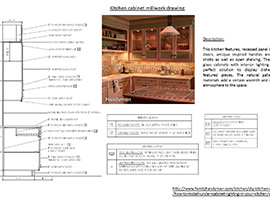
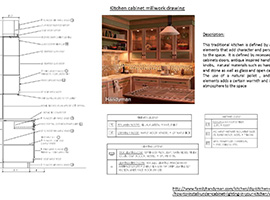
Drafting
fixed mistake on kitchen millwork and added mulberry residence and cafe
in the drafting tab

Changed region(s): [[0.0, 0.06, 0.3852, 0.93], [0.7407, 0.15, 1.0, 0.45]]

diff --git a/chantalportfolio/Drafting.php b/chantalportfolio/Drafting.php
@@ -155,7 +155,67 @@
                             </div>
                             <!--/ .project-thumb-->
                         </li>
-                        <li data-pile="Millwork">
+                      <li data-pile="Mulberry Residence">
+                            <div class="project-thumb">
+                                <a class="single-image plus-icon animTop" href="images/MulberryResidence/MullberryFloorPlan.jpg" rel="Mulberry Residence">
+                                    <img src="images/MulberryResidence/Mullberry%20Architectural&RCPCopy.jpg" />
+                                </a>
+                                <a href="gallery-single.html" class="project-meta">
+                                    <h6 class="title">Elevations #2</h6>
+                                    <span class="categories">Optometry Office</span>
+                                </a>
+                            </div>
+                            <!--/ .project-thumb-->
+                        </li>
+                     <li data-pile="Mulberry Residence">
+                            <div class="project-thumb">
+                                <a class="single-image plus-icon animTop" href="images/MulberryResidence/Mullberry%20Architectural&RCP.jpg" rel="Mulberry Residence">
+                                    <img src="images/MulberryResidence/Mullberry%20Architectural&RCPCopy.jpg" />
+                                </a>
+                                <a href="gallery-single.html" class="project-meta">
+                                    <h6 class="title">Elevations #2</h6>
+                                    <span class="categories">Optometry Office</span>
+                                </a>
+                            </div>
+                            <!--/ .project-thumb-->
+                        </li>
+                     <li data-pile="Mulberry Cafe">
+                            <div class="project-thumb">
+                                <a class="single-image plus-icon animTop" href="images/Mulberry%2520Cafe/CafeArchitectural.jpg" rel="Mulberry Cafe">
+                                    <img src="images/Mulberry%2520Cafe/CafeArchitecturalCopy.jpg" />
+                                </a>
+                                <a href="gallery-single.html" class="project-meta">
+                                    <h6 class="title">Elevations #2</h6>
+                                    <span class="categories">Optometry Office</span>
+                                </a>
+                            </div>
+                            <!--/ .project-thumb-->
+                        </li>
+                     <li data-pile="Mulberry Cafe">
+                            <div class="project-thumb">
+                                <a class="single-image plus-icon animTop" href="images/Mulberry%2520Cafe/CafeFurnitureFixture.jpg" rel="Mulberry Cafe">
+                                    <img src="images/Mulberry%2520Cafe/CafeFurnitureFixtureCopy.jpg" />
+                                </a>
+                                <a href="gallery-single.html" class="project-meta">
+                                    <h6 class="title">Elevations #2</h6>
+                                    <span class="categories">Optometry Office</span>
+                                </a>
+                            </div>
+                            <!--/ .project-thumb-->
+                        </li>
+                     <li data-pile="Mulberry Cafe">
+                            <div class="project-thumb">
+                                <a class="single-image plus-icon animTop" href="images/Mulberry%2520Cafe/CafeRCP.jpg"el="Mulberry Cafe">
+                                    <img src="images/Mulberry%2520Cafe/CafeRCPCopy.jpg"
+                                </a>
+                                <a href="gallery-single.html" class="project-meta">
+                                    <h6 class="title">Elevations #2</h6>
+                                    <span class="categories">Optometry Office</span>
+                                </a>
+                            </div>
+                            <!--/ .project-thumb-->
+                        </li>
+                      <li data-pile="Millwork">
                             <div class="project-thumb">
                                 <a class="single-image plus-icon animTop" href="images/Millwork/RECEPTIONDESKMILLWORK.jpg" rel="Millwork">
                                     <img src="images/Millwork/RECEPTIONDESKMILLWORK%20-%20Copy.jpg" />
